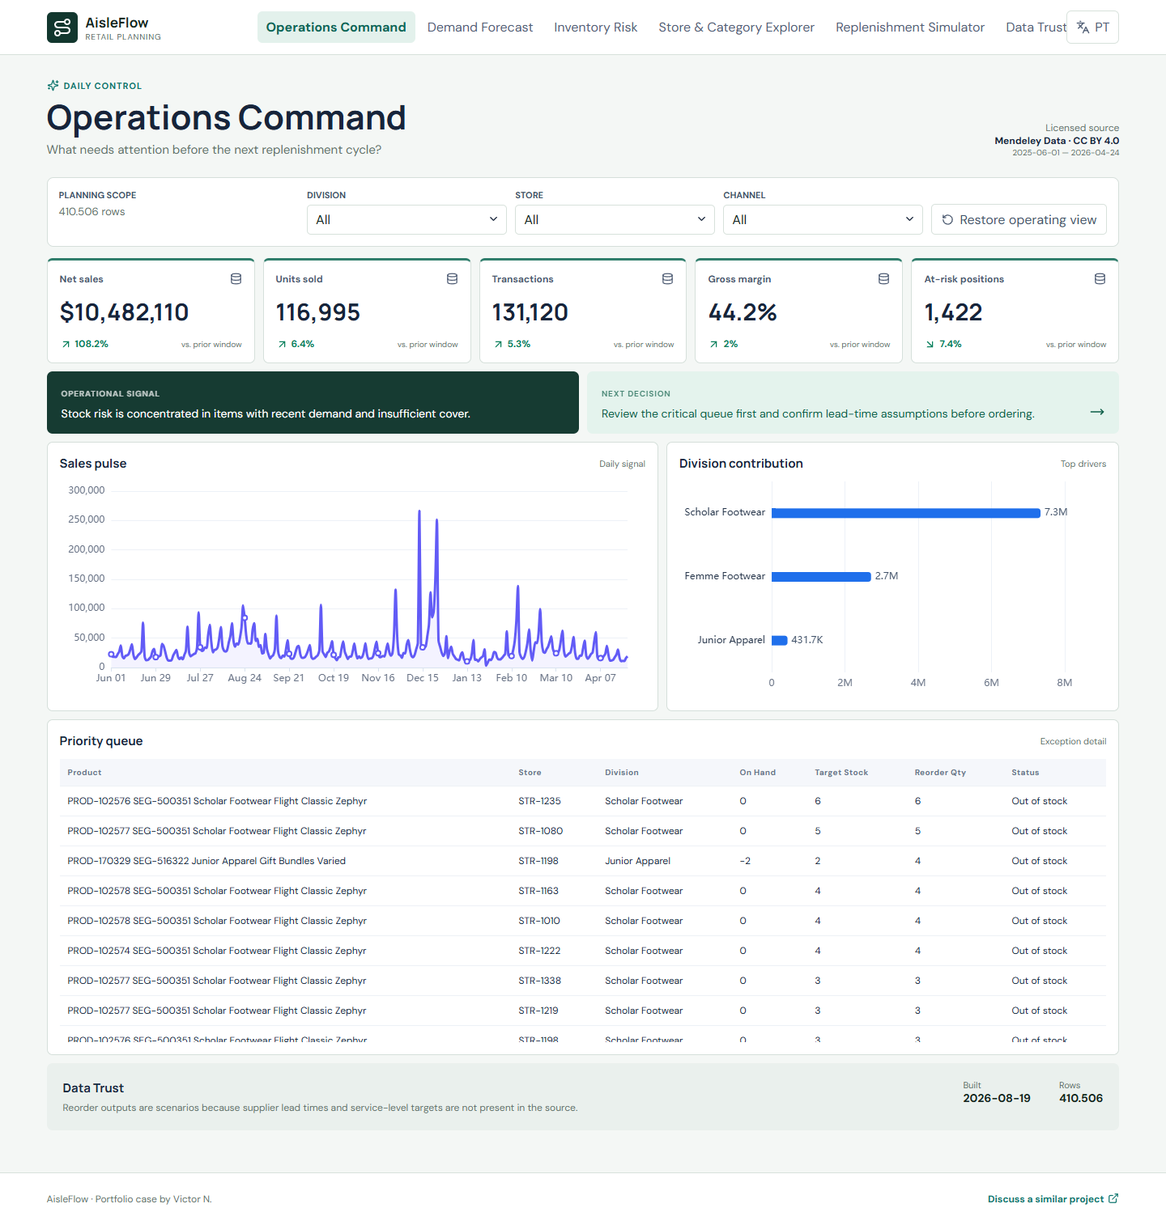
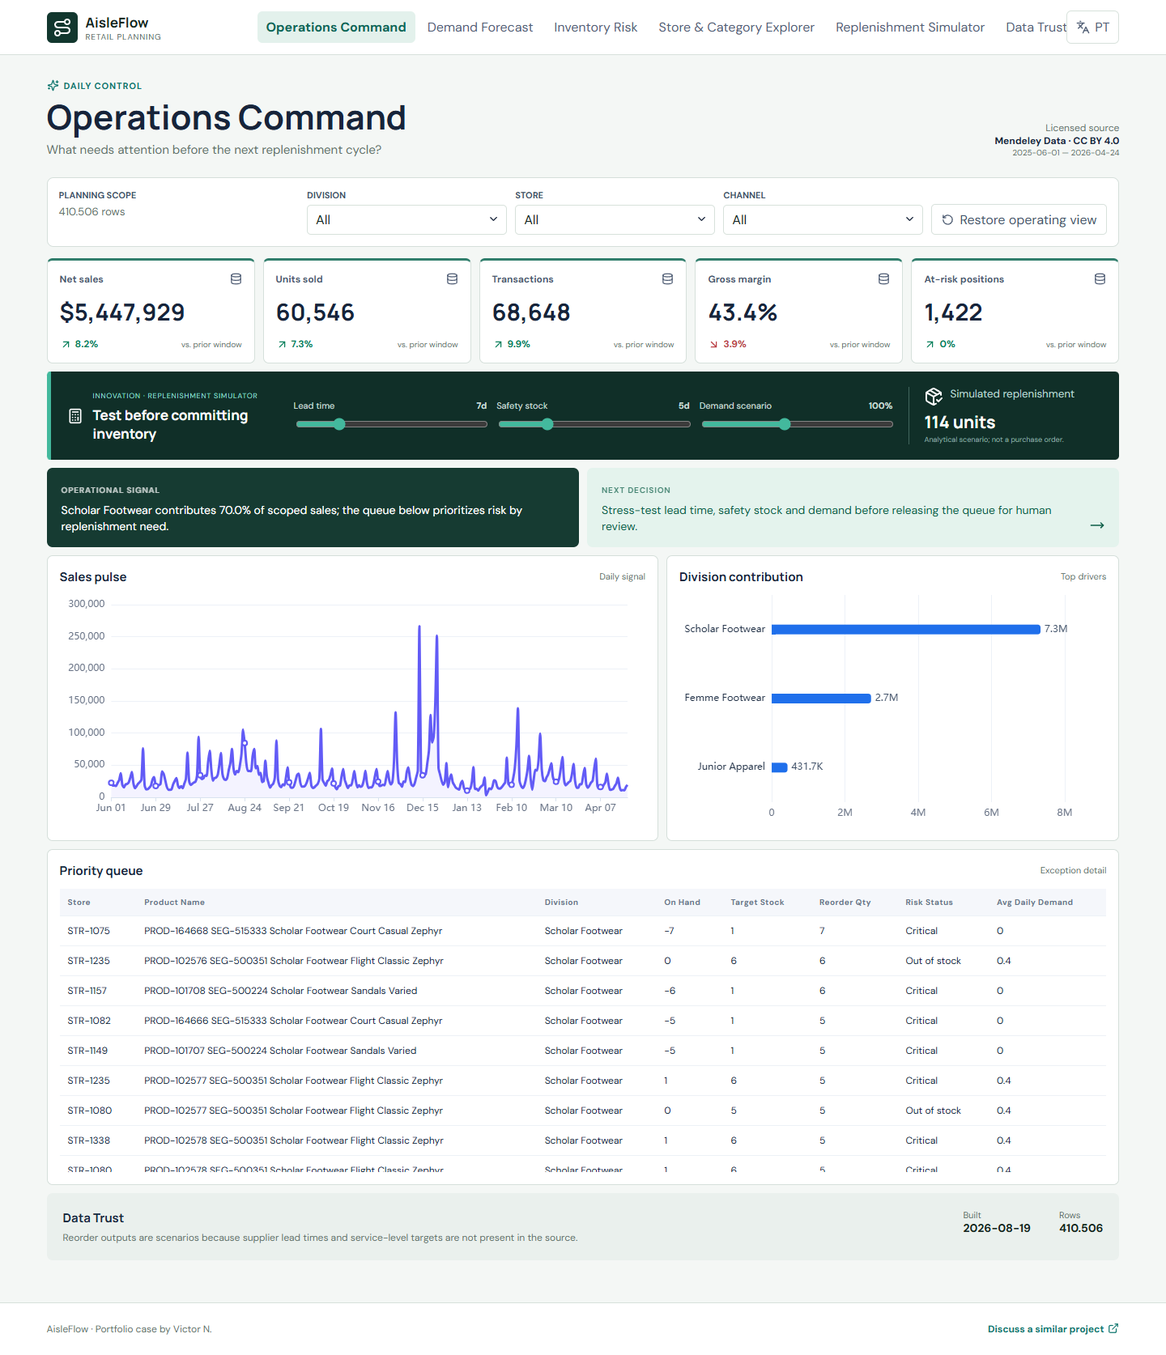
Add operational replenishment scenario workflow

diff --git a/src/queryMart.ts b/src/queryMart.ts
@@ -1,18 +1,19 @@
-import type { SeriesPoint } from './types'
-
-export type FilterState = { channel: string; device: string; country: string }
-export type MartResult = { current: Record<string, number>; previous: Record<string, number>; trend: SeriesPoint[] }
-let connectionPromise: Promise<import('@duckdb/duckdb-wasm').AsyncDuckDBConnection> | undefined
+import type { BreakdownRow, SeriesPoint } from './types'
+export type FilterState={channel:string;device:string;country:string}
+export type MartResult={current:Record<string,number>;previous:Record<string,number>;trend:SeriesPoint[];breakdown:BreakdownRow[];detail:Record<string,string|number>[];context:{topDriver:string;topShare:number;avgDaily:number;stock:number}}
+let connectionPromise:Promise<import('@duckdb/duckdb-wasm').AsyncDuckDBConnection>|undefined
 const literal=(value:string)=>`'${value.replaceAll("'","''")}'`
-
-async function connection(){
-  if(!connectionPromise) connectionPromise=(async()=>{const d=await import('@duckdb/duckdb-wasm');const b=await d.selectBundle(d.getJsDelivrBundles());const workerUrl=URL.createObjectURL(new Blob([`importScripts("${b.mainWorker!}");`],{type:'text/javascript'}));const db=new d.AsyncDuckDB(new d.ConsoleLogger(),new Worker(workerUrl));await db.instantiate(b.mainModule,b.pthreadWorker);await db.registerFileURL('sales.parquet',new URL('./data/mart_sales_daily.parquet',window.location.href).href,d.DuckDBDataProtocol.HTTP,false);await db.registerFileURL('risk.parquet',new URL('./data/mart_inventory_risk.parquet',window.location.href).href,d.DuckDBDataProtocol.HTTP,false);return db.connect()})()
-  return connectionPromise
-}
-
-export async function queryMart(filters:FilterState):Promise<MartResult>{
-  const con=await connection();const clauses=[filters.channel&&`division=${literal(filters.channel)}`,filters.device&&`store=${literal(filters.device)}`,filters.country&&`channel=${literal(filters.country)}`].filter(Boolean);const where=clauses.length?`where ${clauses.join(' and ')}`:''
-  const riskClauses=[filters.channel&&`division=${literal(filters.channel)}`,filters.device&&`store=${literal(filters.device)}`].filter(Boolean);const riskWhere=riskClauses.length?`where ${riskClauses.join(' and ')}`:''
-  const metrics=async(period:'current'|'previous')=>{const op=period==='current'?'>=':'<';const t=await con.query(`with base as(select * from read_parquet('sales.parquet') ${where}),bounds as(select min(sale_date) lo,max(sale_date) hi from base),scoped as(select b.* from base b,bounds where sale_date ${op} lo+((hi-lo)/2)::integer) select sum(sales_amount)::double sales,sum(units)::double units,sum(transactions)::double tx,sum(cogs)::double cogs,count(distinct store)::double stores,count(distinct product_id)::double sku,count(distinct sale_date)::double coverage_days from scoped`);const r=t.get(0) as Record<string,unknown>;const sales=Number(r.sales??0),cogs=Number(r.cogs??0);const rt=await con.query(`select count(*) filter(where risk_status in ('Out of stock','Critical','Low stock'))::double risk,sum(on_hand)::double stock,sum(reorder_qty)::double reorder from read_parquet('risk.parquet') ${riskWhere}`);const rr=rt.get(0) as Record<string,unknown>;return{sales,units:Number(r.units??0),tx:Number(r.tx??0),margin:sales?(sales-cogs)/sales:0,stores:Number(r.stores??0),sku:Number(r.sku??0),coverage:Number(r.coverage_days??0),risk:Number(rr.risk??0),stock:Number(rr.stock??0),reorder:Number(rr.reorder??0)}}
-  const current=await metrics('current'),previous=await metrics('previous');const t=await con.query(`select strftime(sale_date,'%b %d') as period_label,sum(sales_amount)::double as metric_value from read_parquet('sales.parquet') ${where} group by sale_date order by sale_date`);return{current,previous,trend:t.toArray().map(r=>({label:String(r.period_label),value:Number(r.metric_value)}))}
+async function connection(){if(!connectionPromise)connectionPromise=(async()=>{const d=await import('@duckdb/duckdb-wasm');const b=await d.selectBundle(d.getJsDelivrBundles());const workerUrl=URL.createObjectURL(new Blob([`importScripts("${b.mainWorker!}");`],{type:'text/javascript'}));const db=new d.AsyncDuckDB(new d.ConsoleLogger(),new Worker(workerUrl));await db.instantiate(b.mainModule,b.pthreadWorker);await db.registerFileURL('sales.parquet',new URL('./data/mart_sales_daily.parquet',window.location.href).href,d.DuckDBDataProtocol.HTTP,false);await db.registerFileURL('risk.parquet',new URL('./data/mart_inventory_risk.parquet',window.location.href).href,d.DuckDBDataProtocol.HTTP,false);return db.connect()})();return connectionPromise}
+const records=(table:{toArray:()=>Record<string,unknown>[]})=>table.toArray().map(row=>Object.fromEntries(Object.entries(row).map(([k,v])=>[k,typeof v==='bigint'?Number(v):v]))) as Record<string,string|number>[]
+let queryQueue:Promise<void>=Promise.resolve()
+export function queryMart(filters:FilterState,pageId:string):Promise<MartResult>{const result=queryQueue.then(()=>runQuery(filters,pageId));queryQueue=result.then(()=>undefined,()=>undefined);return result}
+async function runQuery(filters:FilterState,pageId:string):Promise<MartResult>{
+ const con=await connection(),clauses=[filters.channel&&`division=${literal(filters.channel)}`,filters.device&&`store=${literal(filters.device)}`,filters.country&&`channel=${literal(filters.country)}`].filter(Boolean),where=clauses.length?`where ${clauses.join(' and ')}`:''
+ const riskClauses=[filters.channel&&`division=${literal(filters.channel)}`,filters.device&&`store=${literal(filters.device)}`].filter(Boolean),riskWhere=riskClauses.length?`where ${riskClauses.join(' and ')}`:''
+ const metrics=async(period:'current'|'previous')=>{const op=period==='current'?'>=':'<',t=await con.query(`with base as(select * from read_parquet('sales.parquet') ${where}),bounds as(select min(sale_date) lo,max(sale_date) hi from base),scoped as(select b.* from base b,bounds where sale_date ${op} lo+((hi-lo)/2)::integer) select sum(sales_amount)::double sales,sum(units)::double units,sum(transactions)::double tx,sum(cogs)::double cogs,count(distinct store)::double stores,count(distinct product_id)::double sku,count(distinct sale_date)::double coverage_days from scoped`),r=t.get(0) as Record<string,unknown>,sales=Number(r.sales??0),cogs=Number(r.cogs??0),rt=await con.query(`select count(*) filter(where risk_status in ('Out of stock','Critical','Low stock'))::double risk,sum(on_hand)::double stock,sum(reorder_qty)::double reorder from read_parquet('risk.parquet') ${riskWhere}`),rr=rt.get(0) as Record<string,unknown>;return{sales,units:Number(r.units??0),tx:Number(r.tx??0),margin:sales?(sales-cogs)/sales:0,stores:Number(r.stores??0),sku:Number(r.sku??0),coverage:Number(r.coverage_days??0),risk:Number(rr.risk??0),stock:Number(rr.stock??0),reorder:Number(rr.reorder??0)}}
+ const current=await metrics('current'),previous=await metrics('previous'),trendTable=await con.query(`select strftime(sale_date,'%b %d') period_label,sum(sales_amount)::double metric_value from read_parquet('sales.parquet') ${where} group by sale_date order by sale_date`)
+ const dimension=pageId==='explorer'?'store':pageId==='replenishment'?'channel':'division',breakdownTable=await con.query(`select ${dimension} as driver_name,sum(sales_amount)::double as driver_value from read_parquet('sales.parquet') ${where} group by 1 order by driver_value desc limit 12`)
+ const detailTable=await con.query(`select store,product_name,division,on_hand,target_stock,reorder_qty,risk_status,round(avg_daily_28,1)::double avg_daily_demand from read_parquet('risk.parquet') ${riskWhere} order by reorder_qty desc limit 30`)
+ const breakdown=records(breakdownTable).map(r=>({name:String(r.driver_name??'Unknown'),value:Number(r.driver_value??0)})),detail=records(detailTable),total=breakdown.reduce((s,r)=>s+r.value,0),avgDaily=detail.reduce((s,r)=>s+Number(r.avg_daily_demand??0),0),stock=detail.reduce((s,r)=>s+Number(r.on_hand??0),0)
+ return{current,previous,trend:trendTable.toArray().map(r=>({label:String(r.period_label),value:Number(r.metric_value)})),breakdown,detail,context:{topDriver:breakdown[0]?.name??'N/A',topShare:total?breakdown[0].value/total:0,avgDaily,stock}}
 }

diff --git a/src/App.tsx b/src/App.tsx
@@ -4,6 +4,7 @@ import { BarChart, DataGrid, DecisionNote, MetricCard, TrendChart } from './comp
 import { ui } from './i18n'
 import { MartVerifier } from './MartVerifier'
 import { queryMart, type MartResult } from './queryMart'
+import { ReplenishmentSimulator } from './innovation'
 import type { DashboardData, Lang } from './types'
 
 export default function App() {
@@ -12,24 +13,30 @@ export default function App() {
   const [pageId, setPageId] = useState('command')
   const [filters, setFilters] = useState({ channel: '', device: '', country: '' })
   const [mart, setMart] = useState<MartResult | null>(null)
+  const [queryState,setQueryState]=useState<'loading'|'ready'|'error'>('loading')
   useEffect(() => { fetch('./data/dashboard.json').then(r => r.json()).then(setData) }, [])
   useEffect(() => { localStorage.setItem('aisleflow-lang', lang); document.documentElement.lang = lang === 'pt' ? 'pt-BR' : 'en' }, [lang])
-  useEffect(() => { let active=true; if (!filters.channel && !filters.device && !filters.country) { setMart(null); return }; queryMart(filters).then(result => active && setMart(result)).catch(() => active && setMart(null)); return () => { active=false } }, [filters.channel, filters.device, filters.country])
+  useEffect(()=>{let active=true;setQueryState('loading');queryMart(filters,pageId).then(result=>{if(active){setMart(result);setQueryState('ready')}}).catch(error=>{console.error(error);if(active)setQueryState('error')});return()=>{active=false}},[filters.channel,filters.device,filters.country,pageId])
   if (!data) return <main className="loading"><Activity className="spin" /> Loading AisleFlow...</main>
   const page = data.pages.find(p => p.id === pageId) ?? data.pages[0]
   const metrics = page.metrics.map(metric => mart?.current[metric.id] === undefined ? metric : { ...metric, value: mart.current[metric.id], previous: mart.previous[metric.id] ?? metric.previous })
   const trend = mart?.trend.length ? mart.trend : page.trend
+  const breakdown=mart?.breakdown.length?mart.breakdown:page.breakdown,detail=mart?.detail.length?mart.detail:page.detail
+  const finding=mart?(lang==='pt'?`${mart.context.topDriver} concentra ${(mart.context.topShare*100).toFixed(1)}% das vendas no recorte; a fila abaixo prioriza risco por necessidade de reposição.`:`${mart.context.topDriver} contributes ${(mart.context.topShare*100).toFixed(1)}% of scoped sales; the queue below prioritizes risk by replenishment need.`):page.finding[lang]
+  const action=mart?(lang==='pt'?'Teste prazo, segurança e demanda no simulador antes de liberar a fila para revisão humana.':'Stress-test lead time, safety stock and demand before releasing the queue for human review.'):page.action[lang]
   const t = ui[lang]
-  const select = (label: string, key: keyof typeof filters, values: string[]) => <label className="filter"><span>{label}</span><div><select value={filters[key]} onChange={e => setFilters(v => ({ ...v, [key]: e.target.value }))}><option value="">{t.all}</option>{values.map(v => <option key={v}>{v}</option>)}</select><ChevronDown size={15} /></div></label>
+  const select = (label: string, key: keyof typeof filters, values: string[]) => <label className="filter"><span>{label}</span><div><select disabled={queryState==='loading'} value={filters[key]} onChange={e => setFilters(v => ({ ...v, [key]: e.target.value }))}><option value="">{t.all}</option>{values.map(v => <option key={v}>{v}</option>)}</select><ChevronDown size={15} /></div></label>
   return <div className="app-shell">
     <header className="topbar"><a className="brand" href="#top"><span className="brand-mark"><Route /></span><span><b>AisleFlow</b><small>Retail Planning</small></span></a><nav>{data.pages.map(p => <button className={p.id === page.id ? 'active' : ''} onClick={() => setPageId(p.id)} key={p.id}>{p.title[lang]}</button>)}</nav><button className="language" onClick={() => setLang(lang === 'en' ? 'pt' : 'en')}><Languages size={17} />{lang === 'en' ? 'PT' : 'EN'}</button></header>
     <main id="top">
       <section className="page-head"><div><span className="eyebrow"><Sparkles size={15} />{page.eyebrow[lang]}</span><h1>{page.title[lang]}</h1><p>{page.question[lang]}</p></div><div className="source-stamp"><span>{t.source}</span><b>{data.meta.source}</b><small>{data.meta.period}</small></div></section>
       <section className="filterbar"><div className="filter-heading"><span>{t.filters}</span><small>{data.meta.rows.toLocaleString()} rows</small></div>{select(t.channel, 'channel', data.filters.channels)}{select(t.device, 'device', data.filters.devices)}{select(t.country, 'country', data.filters.countries)}<button className="reset" onClick={() => setFilters({ channel: '', device: '', country: '' })}><RotateCcw size={15} />{t.reset}</button></section>
       <section className="metrics">{metrics.map(metric => <MetricCard key={metric.id} metric={metric} lang={lang} prior={t.prior} />)}</section>
-      <section className="decision-strip"><DecisionNote title={t.finding}>{page.finding[lang]}</DecisionNote><DecisionNote title={t.action} action>{page.action[lang]}</DecisionNote></section>
-      <section className="analysis-grid"><article className="panel wide"><div className="panel-title"><h2>{page.trendTitle[lang]}</h2><span>Daily signal</span></div><TrendChart data={trend} lang={lang} /></article><article className="panel"><div className="panel-title"><h2>{page.breakdownTitle[lang]}</h2><span>Top drivers</span></div><BarChart data={page.breakdown} lang={lang} /></article></section>
-      <section className="panel detail"><div className="panel-title"><h2>{page.detailTitle[lang]}</h2><span>{t.details}</span></div><DataGrid rows={page.detail} /></section>
+      {queryState==='error'&&<div className="query-error" role="alert">{lang==='pt'?'Não foi possível recalcular o recorte.':'The selected scope could not be recalculated.'}</div>}
+      <ReplenishmentSimulator avgDaily={mart?.context.avgDaily??0} stock={mart?.context.stock??0} lang={lang}/>
+      <section className={`decision-strip ${queryState==='loading'?'is-loading':''}`}><DecisionNote title={t.finding}>{finding}</DecisionNote><DecisionNote title={t.action} action>{action}</DecisionNote></section>
+      <section className="analysis-grid"><article className="panel wide"><div className="panel-title"><h2>{page.trendTitle[lang]}</h2><span>Daily signal</span></div><TrendChart data={trend} lang={lang} /></article><article className="panel"><div className="panel-title"><h2>{page.breakdownTitle[lang]}</h2><span>Top drivers</span></div><BarChart data={breakdown} lang={lang} /></article></section>
+      <section className="panel detail"><div className="panel-title"><h2>{page.detailTitle[lang]}</h2><span>{t.details}</span></div><DataGrid rows={detail} /></section>
       <section className="trust"><div><h2>{t.trust}</h2><p>{data.meta.limitations[lang]}</p>{page.id === 'trust' && <MartVerifier file="mart_inventory_risk.parquet" lang={lang}/>}</div><div><span>Built</span><b>{data.meta.builtAt}</b></div><div><span>Rows</span><b>{data.meta.rows.toLocaleString()}</b></div></section>
     </main>
     <footer><span>AisleFlow · Portfolio case by Victor N.</span><a href="mailto:comercial@wickoai.com.br">{t.contact}<ExternalLink size={14} /></a></footer>

diff --git a/src/components.tsx b/src/components.tsx
@@ -31,14 +31,14 @@ export function MetricCard({ metric, lang, prior }: { metric: Metric; lang: Lang
 
 export function TrendChart({ data, lang }: { data: SeriesPoint[]; lang: Lang }) {
   const option = { animationDuration: 450, grid: { left: 12, right: 22, top: 24, bottom: 18, containLabel: true }, tooltip: { trigger: 'axis', valueFormatter: (v: number) => new Intl.NumberFormat(lang === 'pt' ? 'pt-BR' : 'en-US').format(v) }, xAxis: { type: 'category', data: data.map(d => d.label), boundaryGap: false, axisLine: { lineStyle: { color: '#d9e2ef' } }, axisLabel: { color: '#697386' } }, yAxis: { type: 'value', splitLine: { lineStyle: { color: '#edf1f7' } }, axisLabel: { color: '#697386' } }, series: [{ type: 'line', data: data.map(d => d.value), smooth: .25, symbolSize: 6, lineStyle: { width: 3, color: '#625bf6' }, itemStyle: { color: '#625bf6' }, areaStyle: { color: 'rgba(98,91,246,.10)' } }] }
-  return <ReactEChartsCore echarts={echarts} option={option} style={{ height: 280 }} />
+  return <div className="chart-viewport"><ReactEChartsCore echarts={echarts} option={option} style={{ height: 300,width:'100%' }} /></div>
 }
 
 export function BarChart({ data, lang }: { data: BreakdownRow[]; lang: Lang }) {
   const sorted = [...data].sort((a,b) => a.value - b.value).slice(-8)
   const compact = (value: number) => new Intl.NumberFormat(lang === 'pt' ? 'pt-BR' : 'en-US', { notation: 'compact', maximumFractionDigits: 1 }).format(value)
   const option = { animationDuration: 450, grid: { left: 12, right: 52, top: 12, bottom: 12, containLabel: true }, tooltip: { trigger: 'axis', axisPointer: { type: 'shadow' } }, xAxis: { type: 'value', splitNumber: 4, splitLine: { lineStyle: { color: '#edf1f7' } }, axisLabel: { color: '#697386', formatter: compact } }, yAxis: { type: 'category', data: sorted.map(d => d.name), axisLine: { show: false }, axisTick: { show: false }, axisLabel: { color: '#27364b', width: 120, overflow: 'truncate' } }, series: [{ type: 'bar', data: sorted.map(d => d.value), barWidth: 12, itemStyle: { color: '#1f6feb', borderRadius: [0, 4, 4, 0] }, label: { show: true, position: 'right', color: '#415269', formatter: (p: { value: number }) => compact(p.value) } }] }
-  return <ReactEChartsCore echarts={echarts} option={option} style={{ height: 280 }} />
+  return <div className="chart-viewport"><ReactEChartsCore echarts={echarts} option={option} style={{ height: 300,width:'100%' }} /></div>
 }
 
 export function DataGrid({ rows }: { rows: Record<string, string | number>[] }) {

diff --git a/src/styles.css b/src/styles.css
@@ -7,3 +7,4 @@
 .mart-verify{margin-top:12px;border:1px solid var(--line);background:#fff;color:var(--accent);border-radius:5px;padding:8px 10px;display:flex;align-items:center;gap:7px;font-weight:700;font-size:11px;cursor:pointer}.mart-verify.ready{color:var(--green)}.mart-verify.error{color:var(--red)}
 :root{--line:#d7e1db;--ink:#15251f;--muted:#64736c;--accent:#0f766e;--blue:#256d5d;--green:#087f5b;--red:#ba3f45}
 body{background:#f4f7f5}.brand-mark{border-radius:6px;background:#12372e}.topbar nav button.active{background:#e3f1ec;color:#0f6757}.decision-note{background:#163b32}.decision-note.action{background:#e4f3ed;color:#0b5c46}.filterbar,.panel,.metric-card{border-color:#d5dfda}.metric-card{border-top:3px solid #2f7d6b}.trust{background:#eaf0ed}
+.chart-viewport{width:100%;min-width:0;overflow:hidden}.query-error{margin:10px 0;padding:11px 14px;border:1px solid #e2a9ad;background:#fff2f3;color:var(--red);border-radius:5px}.is-loading{opacity:.58}.simulator{margin:10px 0;display:grid;grid-template-columns:260px 1fr 240px;gap:20px;align-items:center;padding:17px 20px;background:#102f28;color:#fff;border-radius:5px;border-left:5px solid #43b99d}.sim-title{display:flex;gap:12px;align-items:center}.sim-title span{font-size:9px;letter-spacing:.08em;color:#8ed7c4}.sim-title h2{font:700 17px Manrope;margin:4px 0}.sim-controls{display:grid;grid-template-columns:repeat(3,1fr);gap:12px}.sim-controls label{font-size:11px;color:#c8ded7;display:grid;grid-template-columns:1fr auto;gap:6px}.sim-controls input{grid-column:1/-1;accent-color:#43b99d;width:100%}.sim-output{border-left:1px solid #41665d;padding-left:18px;display:grid;grid-template-columns:auto 1fr;gap:2px 8px}.sim-output small{color:#b8d3cc}.sim-output strong{grid-column:1/-1;font:700 21px Manrope;margin-top:3px}.sim-output em{grid-column:1/-1;color:#8eaaa2;font-size:9px;font-style:normal}@media(max-width:1000px){.simulator{grid-template-columns:1fr}.sim-output{border-left:0;padding-left:0}.sim-controls{grid-template-columns:1fr}}

diff --git a/src/innovation.tsx b/src/innovation.tsx
@@ -1,0 +1,4 @@
+import { useMemo, useState } from 'react'
+import { Calculator, PackageCheck } from 'lucide-react'
+import type { Lang } from './types'
+export function ReplenishmentSimulator({avgDaily,stock,lang}:{avgDaily:number;stock:number;lang:Lang}){const[lead,setLead]=useState(7),[safety,setSafety]=useState(5),[demand,setDemand]=useState(100);const target=useMemo(()=>Math.round(avgDaily*(lead+safety)*(demand/100)),[avgDaily,lead,safety,demand]),recommended=Math.max(0,target-stock);return <section className="simulator"><div className="sim-title"><Calculator/><div><span>{lang==='pt'?'INOVAÇÃO · SIMULADOR DE REPOSIÇÃO':'INNOVATION · REPLENISHMENT SIMULATOR'}</span><h2>{lang==='pt'?'Teste antes de comprometer estoque':'Test before committing inventory'}</h2></div></div><div className="sim-controls"><label>{lang==='pt'?'Prazo de entrega':'Lead time'}<b>{lead}d</b><input type="range" min="1" max="30" value={lead} onChange={e=>setLead(+e.target.value)}/></label><label>{lang==='pt'?'Estoque de segurança':'Safety stock'}<b>{safety}d</b><input type="range" min="0" max="21" value={safety} onChange={e=>setSafety(+e.target.value)}/></label><label>{lang==='pt'?'Cenário de demanda':'Demand scenario'}<b>{demand}%</b><input type="range" min="70" max="140" value={demand} onChange={e=>setDemand(+e.target.value)}/></label></div><div className="sim-output"><PackageCheck/><small>{lang==='pt'?'Reposição simulada':'Simulated replenishment'}</small><strong>{new Intl.NumberFormat(lang==='pt'?'pt-BR':'en-US').format(recommended)} {lang==='pt'?'unidades':'units'}</strong><em>{lang==='pt'?'Cenário analítico; não é uma ordem de compra.':'Analytical scenario; not a purchase order.'}</em></div></section>}

diff --git a/README.md b/README.md
@@ -53,3 +53,6 @@ Validate with `python -m pipeline validate`, `pytest`, `npm test`, `npm run buil
 Production implementation would connect ERP sales, inventory snapshots, supplier lead times, service levels, and purchasing constraints. [Discuss a similar project](mailto:comercial@wickoai.com.br).
 
 See [Portuguese documentation](README.pt-BR.md), [complete dashboard guide](docs/DASHBOARD_GUIDE.md), [metric catalog](docs/METRIC_CATALOG.md), and [demo guide](docs/DEMO_GUIDE.md).
+# Design innovation
+
+The **Replenishment Simulator** converts filtered demand and stock signals into an editable scenario. Lead time, safety-stock days, and demand variation change the recommendation immediately; the result is explicitly a planning scenario, not an automated purchase order.

diff --git a/docs/DASHBOARD_GUIDE.md b/docs/DASHBOARD_GUIDE.md
@@ -110,4 +110,7 @@ Retail planning is an exception-management workflow. The interface uses compact 
 ## What the dashboard does not claim
 
 Supplier lead time, service level, minimum order, purchase-order constraints, lost sales, and carrying cost are absent. Replenishment values are scenarios, forecast performance is historical, and no recommendation should be executed without operational confirmation.
+# Signature interaction: Replenishment Simulator
+
+Set lead time, safety-stock days, and a demand scenario. The recommended units use the same filtered risk queue shown below. Review negative stock, target stock, reorder quantity, and risk status before acting; missing supplier economics remain a declared limitation.
 

diff --git a/docs/DASHBOARD_GUIDE.pt-BR.md b/docs/DASHBOARD_GUIDE.pt-BR.md
@@ -100,4 +100,7 @@ Planejamento de varejo é gestão de exceções. Cards compactos, filtros persis
 ## Limites
 
 Prazo de fornecedor, nível de serviço, lote mínimo, restrições de pedido, venda perdida e custo de carregamento não existem. As reposições são cenários e exigem confirmação operacional.
+# Interação principal: Simulador de Reposição
+
+Defina prazo de entrega, dias de estoque de segurança e cenário de demanda. As unidades recomendadas usam a mesma fila de risco filtrada exibida abaixo. Revise estoque negativo, estoque-alvo, reposição e status antes de agir; custos e condições ausentes continuam declarados como limitação.
 

diff --git a/README.pt-BR.md b/README.pt-BR.md
@@ -37,3 +37,6 @@ npm run dev
 ```
 
 O case demonstra modelagem de granularidades, baseline de previsão, priorização operacional, interface bilíngue e governança de premissas. [Contato](mailto:comercial@wickoai.com.br).
+# Inovação de design
+
+O **Simulador de Reposição** transforma demanda e estoque filtrados em um cenário editável. Prazo de entrega, dias de segurança e variação da demanda alteram a recomendação imediatamente; o resultado é explicitamente um cenário de planejamento, não uma ordem de compra automática.
